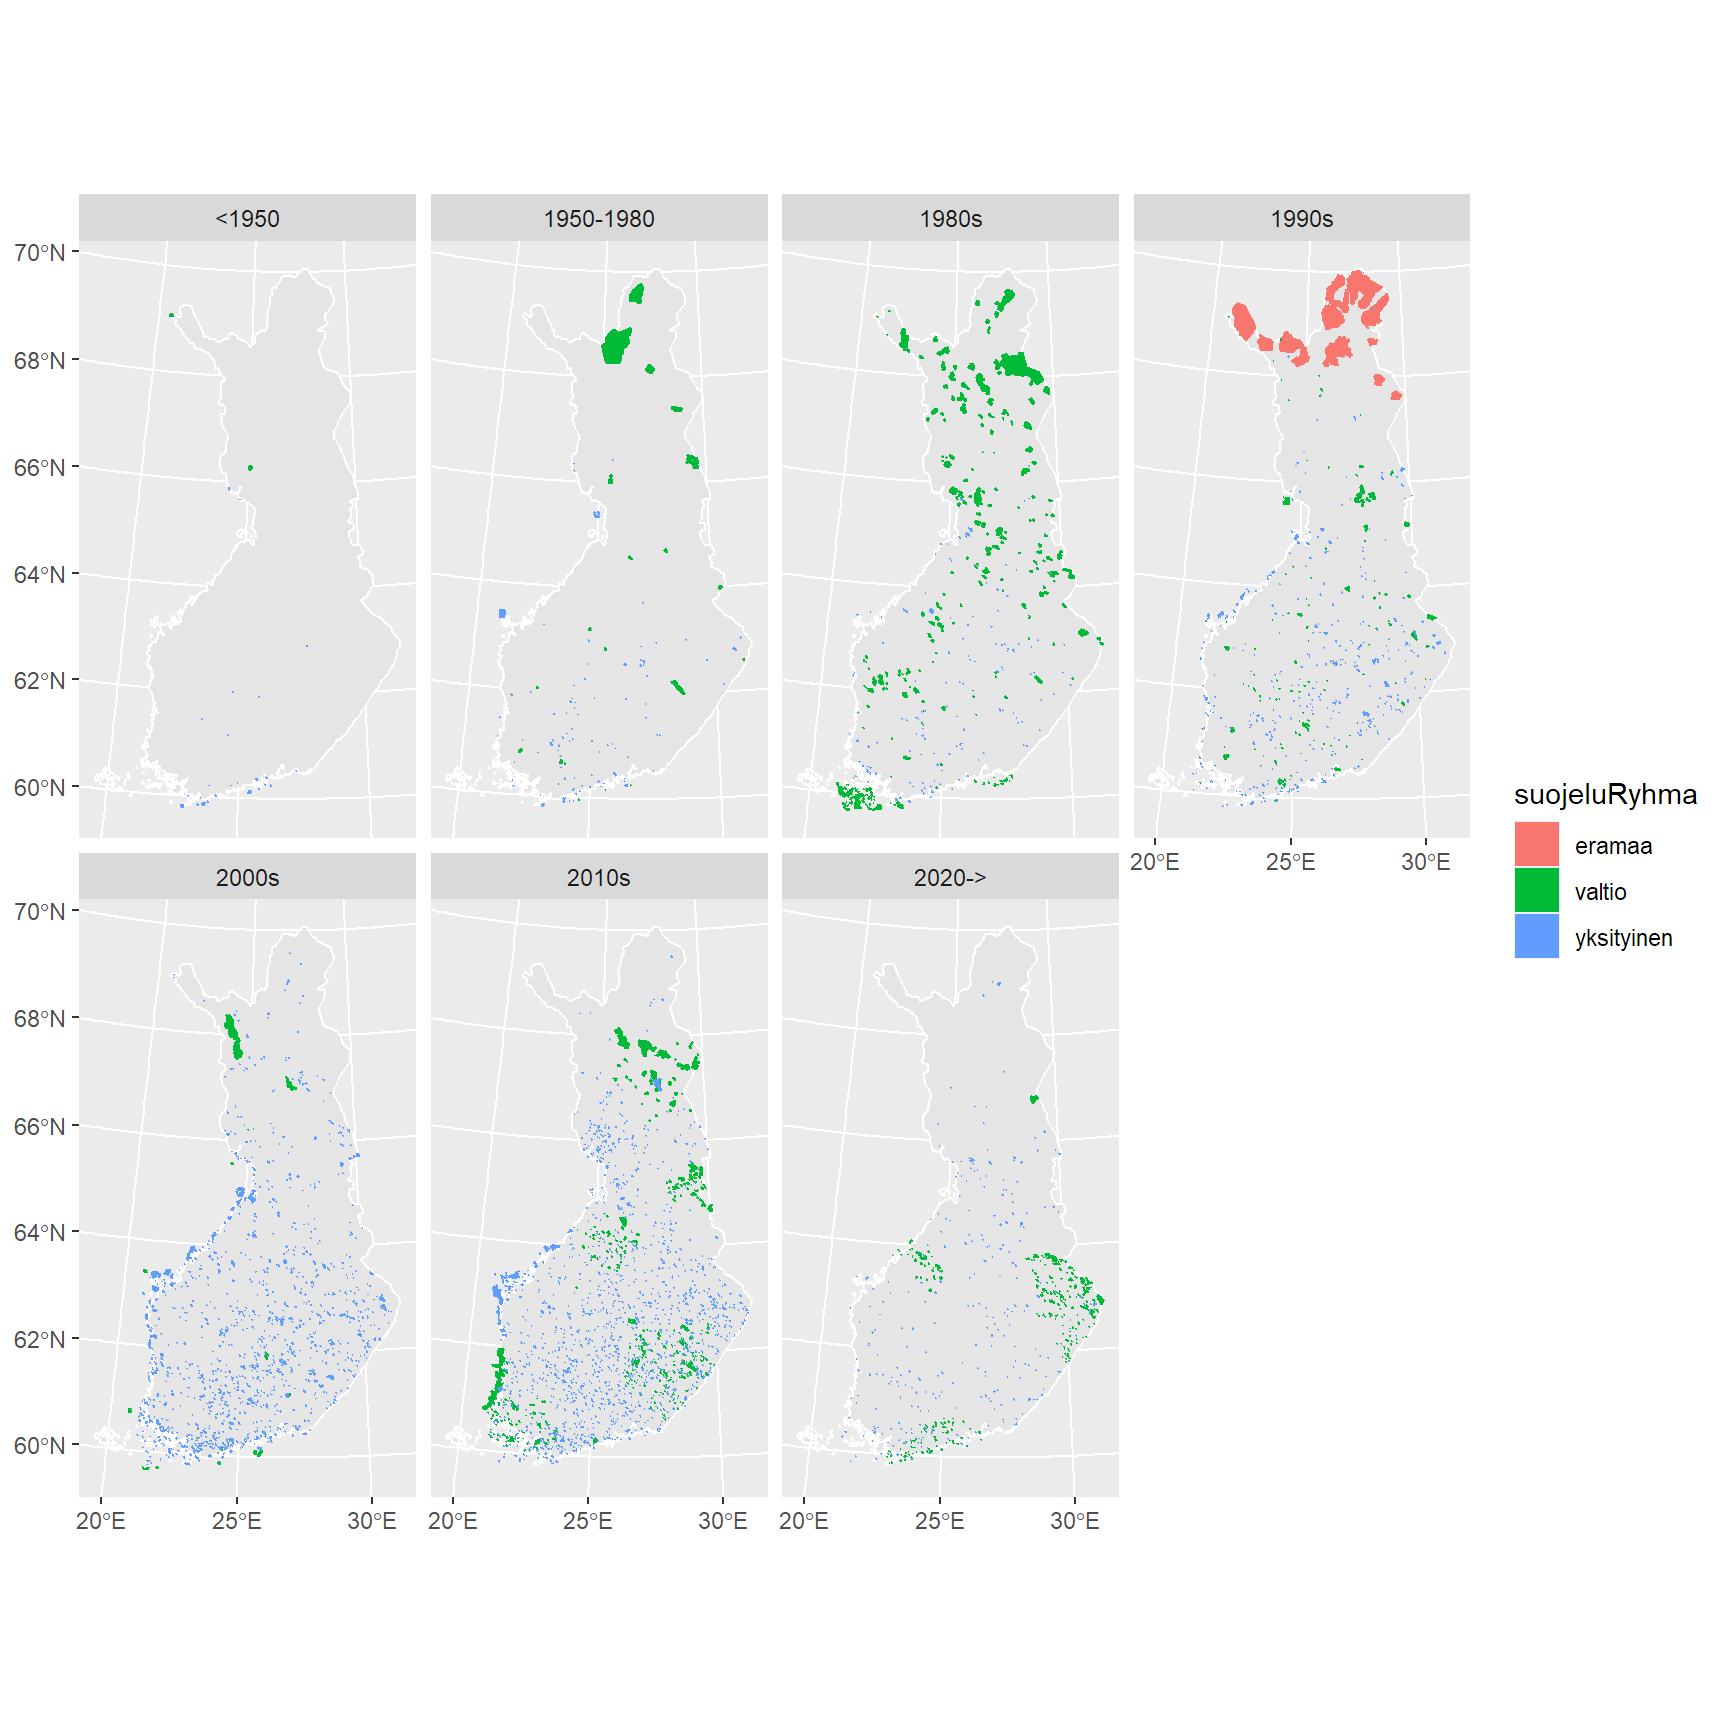
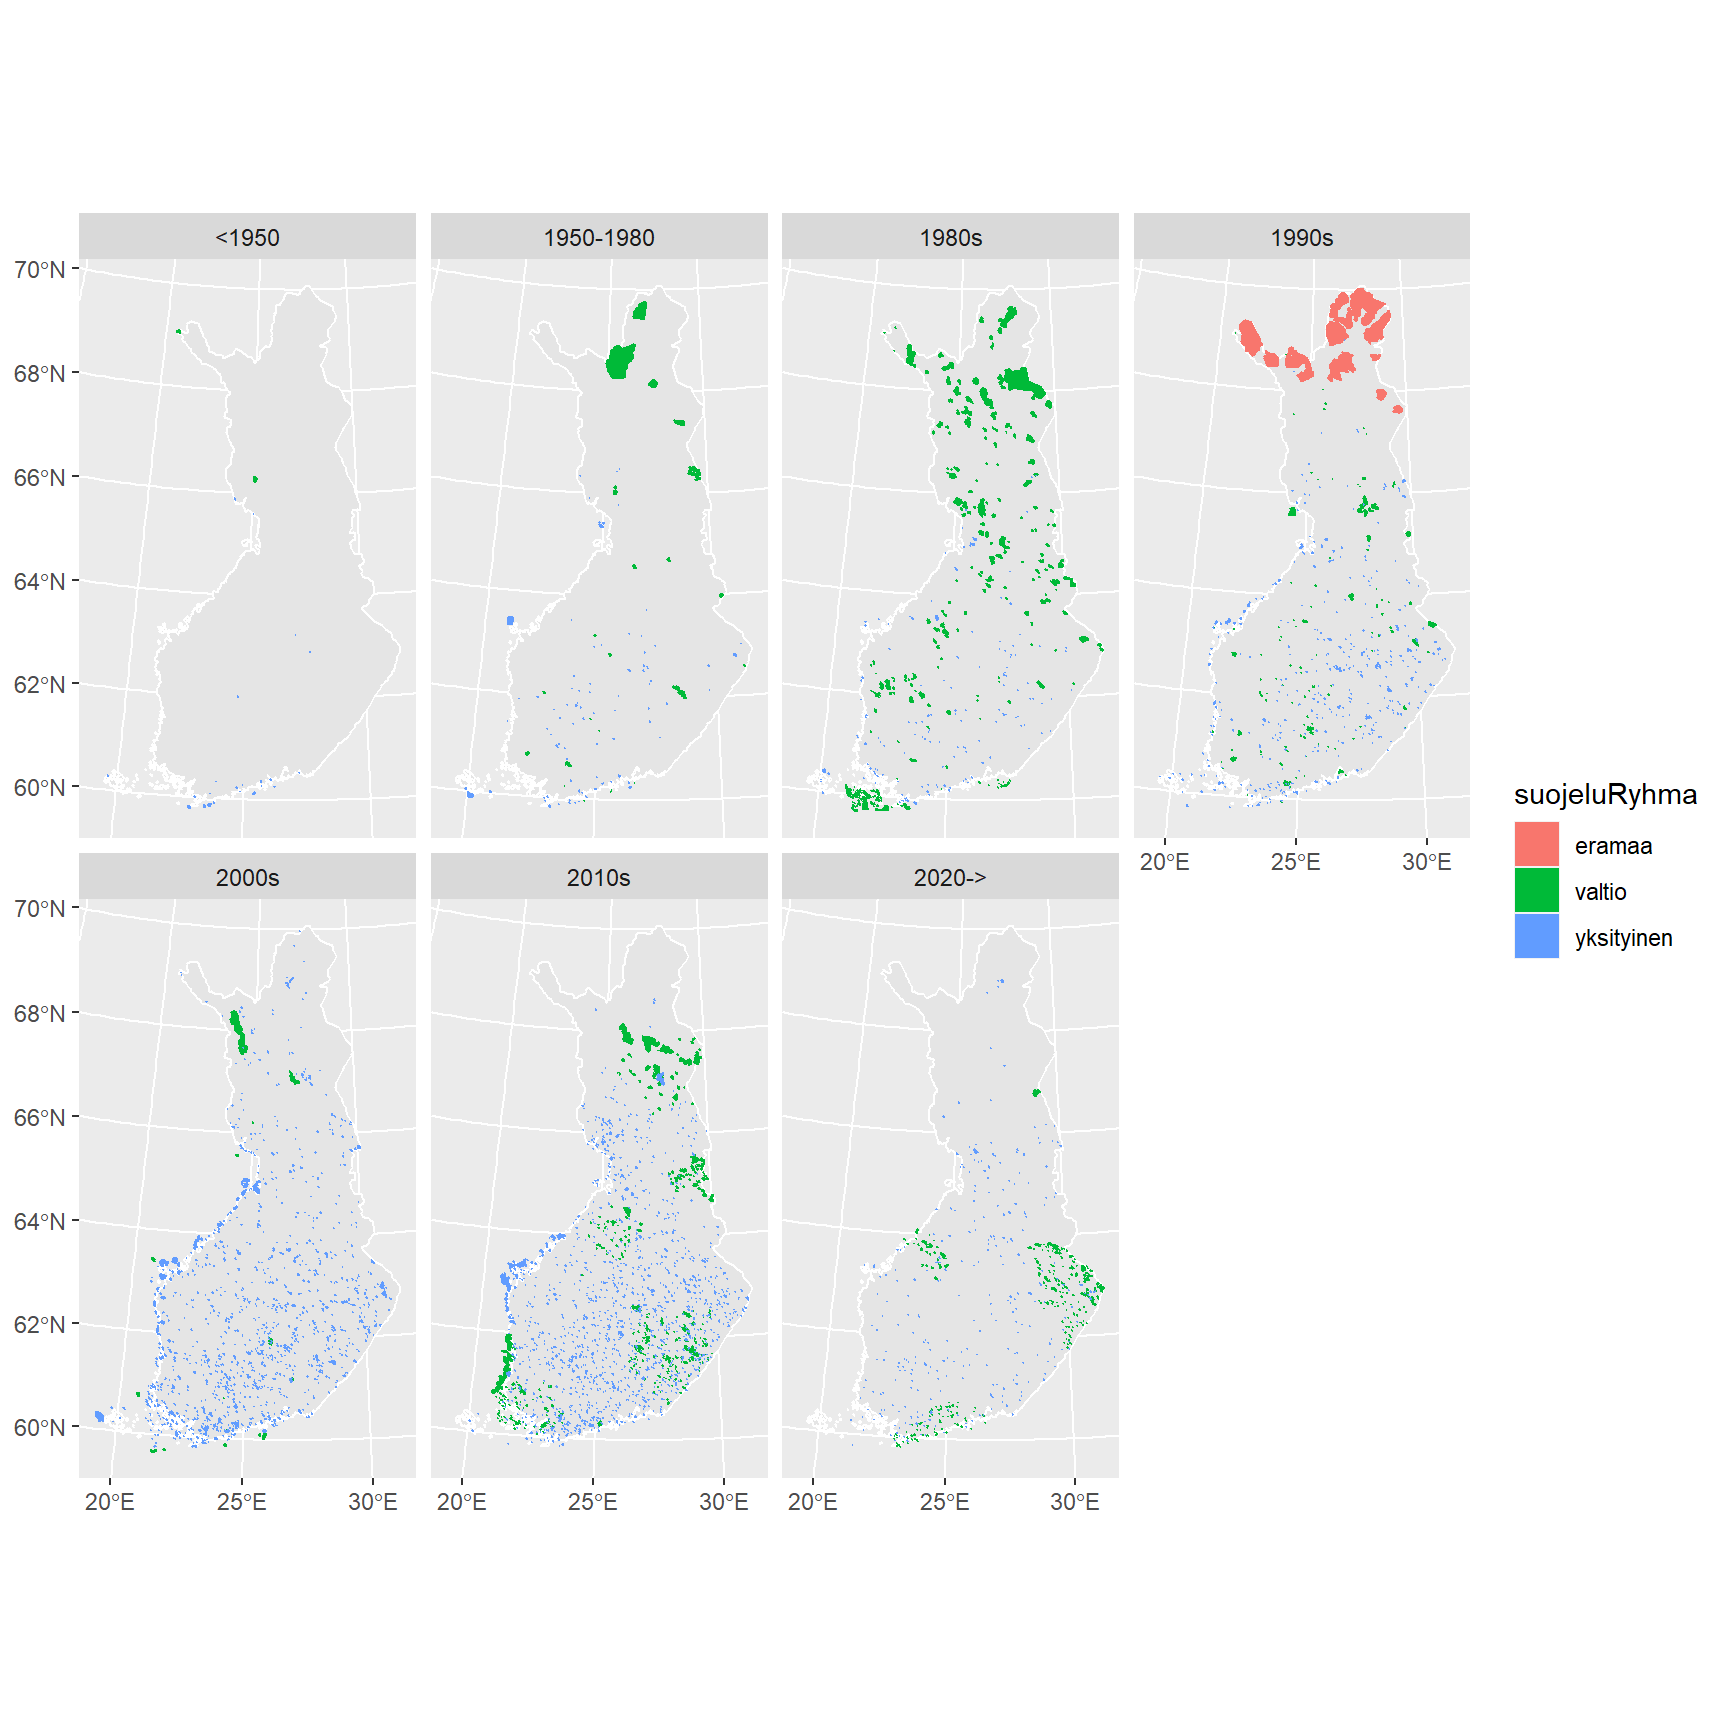
css issues

diff --git a/blog/natural-protection-areas-in-finland-into-r/index.html b/blog/natural-protection-areas-in-finland-into-r/index.html
@@ -360,15 +360,15 @@ function toggleThemeListener() {
 </span></span><span class="line"><span class="cl"><span class="n">areas</span> <span class="o">&lt;-</span> <span class="nf">do.call</span><span class="p">(</span><span class="n">rbind</span><span class="p">,</span> <span class="n">polyl</span><span class="p">)</span>
 </span></span></code></pre></div><p>We now got a bunch of polys.</p>
 <div class="highlight"><pre tabindex="0" class="chroma"><code class="language-r" data-lang="r"><span class="line"><span class="cl"><span class="nf">dim</span><span class="p">(</span><span class="n">areas</span><span class="p">)</span>
-</span></span></code></pre></div><div class="highlight"><pre tabindex="0" class="chroma"><code class="language-fallback" data-lang="fallback"><span class="line"><span class="cl">## [1] 15774    29
+</span></span></code></pre></div><div class="highlight"><pre tabindex="0" class="chroma"><code class="language-fallback" data-lang="fallback"><span class="line"><span class="cl">## [1] 15847    29
 </span></span></code></pre></div><div class="highlight"><pre tabindex="0" class="chroma"><code class="language-r" data-lang="r"><span class="line"><span class="cl"><span class="nf">format</span><span class="p">(</span><span class="nf">object.size</span><span class="p">(</span><span class="n">areas</span><span class="p">),</span> <span class="s">&#34;Mb&#34;</span><span class="p">)</span>
-</span></span></code></pre></div><div class="highlight"><pre tabindex="0" class="chroma"><code class="language-fallback" data-lang="fallback"><span class="line"><span class="cl">## [1] &#34;136.7 Mb&#34;
+</span></span></code></pre></div><div class="highlight"><pre tabindex="0" class="chroma"><code class="language-fallback" data-lang="fallback"><span class="line"><span class="cl">## [1] &#34;137.1 Mb&#34;
 </span></span></code></pre></div><h1 id="some-checks">Some checks</h1>
 <p>According to the data all areas are currently active:</p>
 <div class="highlight"><pre tabindex="0" class="chroma"><code class="language-r" data-lang="r"><span class="line"><span class="cl"><span class="nf">table</span><span class="p">(</span><span class="n">areas</span><span class="o">$</span><span class="n">Olotila</span><span class="p">)</span>
 </span></span></code></pre></div><div class="highlight"><pre tabindex="0" class="chroma"><code class="language-fallback" data-lang="fallback"><span class="line"><span class="cl">## 
 </span></span><span class="line"><span class="cl">## Voimassa 
-</span></span><span class="line"><span class="cl">##    15774
+</span></span><span class="line"><span class="cl">##    15847
 </span></span></code></pre></div><p>Some stats:</p>
 <div class="highlight"><pre tabindex="0" class="chroma"><code class="language-r" data-lang="r"><span class="line"><span class="cl"><span class="n">areas</span> <span class="o">%&gt;%</span> <span class="nf">as.data.frame</span><span class="p">()</span> <span class="o">%&gt;%</span> <span class="nf">group_by</span><span class="p">(</span><span class="n">suojeluRyhma</span><span class="p">)</span> <span class="o">%&gt;%</span> 
 </span></span><span class="line"><span class="cl">  <span class="nf">summarise</span><span class="p">(</span><span class="n">mean_area_km2</span> <span class="o">=</span> <span class="nf">mean</span><span class="p">(</span><span class="n">Shape_STAr</span><span class="p">)</span><span class="o">/</span><span class="m">1000</span><span class="n">^2</span><span class="p">,</span> <span class="n">n</span> <span class="o">=</span> <span class="nf">n</span><span class="p">())</span>
@@ -377,12 +377,12 @@ function toggleThemeListener() {
 </span></span><span class="line"><span class="cl">##   &lt;chr&gt;                &lt;dbl&gt; &lt;int&gt;
 </span></span><span class="line"><span class="cl">## 1 eramaa            1241.       12
 </span></span><span class="line"><span class="cl">## 2 valtio              19.0    1090
-</span></span><span class="line"><span class="cl">## 3 yksityinen           0.259 14672
+</span></span><span class="line"><span class="cl">## 3 yksityinen           0.278 14745
 </span></span></code></pre></div><p>Private ones are very small, wilderness massive.</p>
 <p>Simplifying is easy with the <code>sf</code> classes:</p>
 <div class="highlight"><pre tabindex="0" class="chroma"><code class="language-r" data-lang="r"><span class="line"><span class="cl"><span class="n">areass</span> <span class="o">&lt;-</span> <span class="nf">st_simplify</span><span class="p">(</span><span class="n">areas</span><span class="p">,</span> <span class="n">dTolerance</span> <span class="o">=</span> <span class="m">400</span><span class="p">,</span> <span class="n">preserveTopology</span> <span class="o">=</span> <span class="kc">TRUE</span><span class="p">)</span>
 </span></span><span class="line"><span class="cl"><span class="nf">format</span><span class="p">(</span><span class="nf">object.size</span><span class="p">(</span><span class="n">areass</span><span class="p">),</span> <span class="s">&#34;Mb&#34;</span><span class="p">)</span>
-</span></span></code></pre></div><div class="highlight"><pre tabindex="0" class="chroma"><code class="language-fallback" data-lang="fallback"><span class="line"><span class="cl">## [1] &#34;25.9 Mb&#34;
+</span></span></code></pre></div><div class="highlight"><pre tabindex="0" class="chroma"><code class="language-fallback" data-lang="fallback"><span class="line"><span class="cl">## [1] &#34;26 Mb&#34;
 </span></span></code></pre></div><p>Example:</p>
 <div class="highlight"><pre tabindex="0" class="chroma"><code class="language-r" data-lang="r"><span class="line"><span class="cl"><span class="nf">plot</span><span class="p">(</span><span class="nf">st_geometry</span><span class="p">(</span> <span class="n">areas[1</span><span class="p">,</span><span class="n">]</span><span class="p">),</span> <span class="n">col</span> <span class="o">=</span> <span class="m">2</span><span class="p">,</span> <span class="n">border</span><span class="o">=</span><span class="kc">NA</span><span class="p">)</span>
 </span></span><span class="line"><span class="cl"><span class="nf">plot</span><span class="p">(</span><span class="nf">st_geometry</span><span class="p">(</span><span class="n">areass[1</span><span class="p">,</span><span class="n">]</span><span class="p">),</span> <span class="n">add</span><span class="o">=</span><span class="bp">T</span><span class="p">)</span>
@@ -393,15 +393,15 @@ function toggleThemeListener() {
 </span></span><span class="line"><span class="cl"><span class="nf">table</span><span class="p">(</span><span class="n">vyears</span> <span class="o">&gt;</span> <span class="s">&#34;2025&#34;</span><span class="p">)</span>
 </span></span></code></pre></div><div class="highlight"><pre tabindex="0" class="chroma"><code class="language-fallback" data-lang="fallback"><span class="line"><span class="cl">## 
 </span></span><span class="line"><span class="cl">## FALSE  TRUE 
-</span></span><span class="line"><span class="cl">##  4139 11635
+</span></span><span class="line"><span class="cl">##  4180 11667
 </span></span></code></pre></div><p>Let&rsquo;s assume <code>PaatPvm</code> (date of the decision) is a better starting time. Some are still missing here, though:</p>
 <div class="highlight"><pre tabindex="0" class="chroma"><code class="language-r" data-lang="r"><span class="line"><span class="cl"><span class="n">pyears</span> <span class="o">&lt;-</span> <span class="nf">format</span><span class="p">(</span><span class="nf">as.POSIXct</span><span class="p">(</span> <span class="n">areas</span><span class="o">$</span><span class="n">PaatPvm</span><span class="p">,</span> <span class="n">format</span> <span class="o">=</span> <span class="s">&#34;%Y/%m/%d&#34;</span> <span class="p">),</span> <span class="s">&#34;%Y&#34;</span><span class="p">)</span>
 </span></span><span class="line"><span class="cl"><span class="n">nostart</span>  <span class="o">&lt;-</span> <span class="n">pyears</span> <span class="o">==</span> <span class="s">&#34;9999&#34;</span>
 </span></span><span class="line"><span class="cl"><span class="nf">table</span><span class="p">(</span><span class="n">paat</span><span class="o">=</span> <span class="n">nostart</span><span class="p">,</span> <span class="n">voim</span><span class="o">=</span><span class="n">vyears</span><span class="o">==</span><span class="s">&#34;9999&#34;</span><span class="p">)</span>
 </span></span></code></pre></div><div class="highlight"><pre tabindex="0" class="chroma"><code class="language-fallback" data-lang="fallback"><span class="line"><span class="cl">##        voim
 </span></span><span class="line"><span class="cl">## paat    FALSE  TRUE
-</span></span><span class="line"><span class="cl">##   FALSE  4140 11596
-</span></span><span class="line"><span class="cl">##   TRUE      0    38
+</span></span><span class="line"><span class="cl">##   FALSE  4181 11653
+</span></span><span class="line"><span class="cl">##   TRUE      0    13
 </span></span></code></pre></div><div class="highlight"><pre tabindex="0" class="chroma"><code class="language-r" data-lang="r"><span class="line"><span class="cl"><span class="n">odd</span> <span class="o">&lt;-</span> <span class="nf">st_geometry</span><span class="p">(</span> <span class="n">areas[</span> <span class="n">nostart</span><span class="p">,</span><span class="n">]</span><span class="p">)</span>
 </span></span><span class="line"><span class="cl"><span class="nf">plot</span><span class="p">(</span><span class="n">fin</span><span class="p">)</span>
 </span></span><span class="line"><span class="cl"><span class="nf">plot</span><span class="p">(</span> <span class="n">odd</span><span class="p">,</span> <span class="n">add</span> <span class="o">=</span> <span class="kc">TRUE</span><span class="p">,</span> <span class="n">col</span> <span class="o">=</span> <span class="s">&#34;red&#34;</span><span class="p">)</span>
@@ -445,16 +445,16 @@ function toggleThemeListener() {
 </span></span><span class="line"><span class="cl">##                                                         2 
 </span></span><span class="line"><span class="cl">##                  Luontotyypin suojelualue (LTA; LsL 29 §) 
 </span></span><span class="line"><span class="cl">##                                                       136 
-</span></span><span class="line"><span class="cl">##                               Muu luonnonsuojelualue (MH) 
-</span></span><span class="line"><span class="cl">##                                                        42 
 </span></span><span class="line"><span class="cl">##               Määräaikainen rauhoitusalue (MRA; LsL 25 §) 
 </span></span><span class="line"><span class="cl">##                                                         6 
+</span></span><span class="line"><span class="cl">##                               Muu luonnonsuojelualue (MH) 
+</span></span><span class="line"><span class="cl">##                                                        42 
 </span></span><span class="line"><span class="cl">##                                         Soidensuojelualue 
 </span></span><span class="line"><span class="cl">##                                                         1 
 </span></span><span class="line"><span class="cl">##                              Vanhojen metsien suojelualue 
 </span></span><span class="line"><span class="cl">##                                                         3 
 </span></span><span class="line"><span class="cl">##                   Yksityismaiden luonnonsuojelualue (YSA) 
-</span></span><span class="line"><span class="cl">##                                                      1608
+</span></span><span class="line"><span class="cl">##                                                      1632
 </span></span></code></pre></div><p>Some are special species-protection areas (e.g. seal).</p>
 
   </div>

diff --git a/blog/golden-ratio-of-valium/index.html b/blog/golden-ratio-of-valium/index.html
@@ -399,7 +399,7 @@ function toggleThemeListener() {
 </div>
 <p>For reference, here is the original by Hirst (from WikiArt):</p>
 <div class="figure">
-<img src="images/hirst-valium-wikiart.jpg" alt="Hirst: Valium (from Wikiart)" width="240" />
+<img src="images/hirst-valium-wikiart.jpg" alt="Hirst: Valium (from Wikiart)"  />
 <p class="caption">Figure 3: Hirst: Valium (from Wikiart)</p>
 </div>
 <p>I don&rsquo;t have £7k or anything like that floating about, but I&rsquo;m pretty sure that when I want random spots on a white canvas to decorate my flat with, I can figure out a sufficient substitute.</p>
